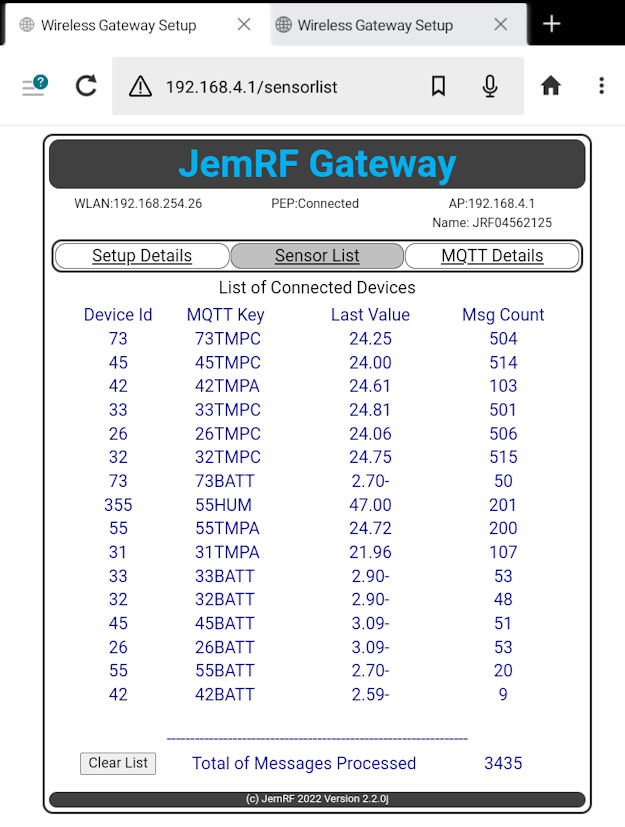
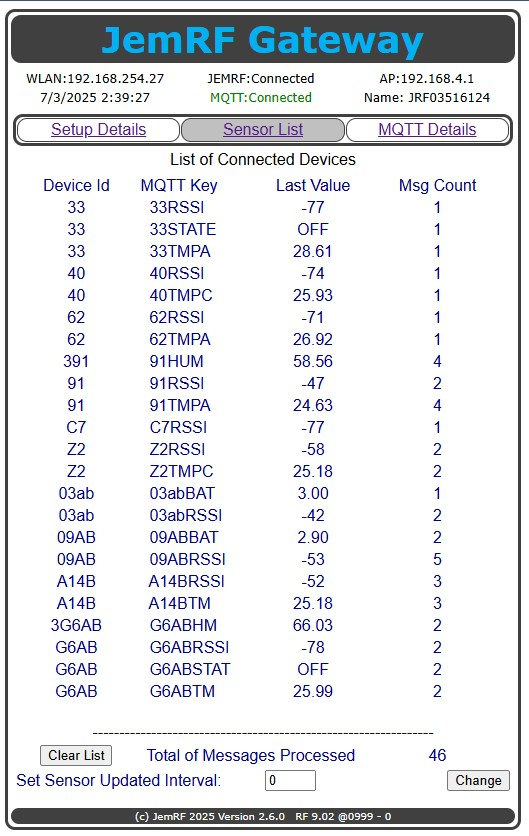
WiFI Gateway - RF4 compliant, new Sensor List

diff --git a/pages/wifidocs/wifi-rf-relay.md b/pages/wifidocs/wifi-rf-relay.md
@@ -1,20 +1,21 @@
 ---
 title: WiFi Wireless Gateway
 keywords: communication, communications, relay, basic, radio, spec, wifi, sensor
-last_updated: Jan 30, 2024
+last_updated: Jul 2, 2025
 tags: gateway, RF Gateway, WiFi Gateway
 sidebar: wifi_sidebar
 permalink: wifi-rf-relay.html
 folder: mydoc
 ---
 ## Introduction
-The WiFi Wireless Gateway (WiFi Gateway) receives messages from the Wireless sensors and sends them to the PrivateEyePi or JemRF Monitoring service. This eliminates the need for a Raspberry PI computer and all that extra overhead. The Gateway provides an easy to use tool to get your wireless sensors online free of configuring and programming a computer first.<br />
+The WiFi Wireless Gateway (WiFi Gateway) receives messages from the Wireless sensors and sends them to the JemRF Monitoring service. This eliminates the need for a Raspberry PI computer and all that extra overhead. The Gateway provides an easy to use tool to get your wireless sensors online free of configuring and programming a computer first.<br />
 
 The WiFi Gateway is in the same physical case as the current WiFi IoT Sensors.
  * Follows the same setup process as our WiFi IoT Sensors to connect to the local 2.4G WiFi Only.
  * It has option to send Celsius to Fahrenheit readings.
  * Using a USB-mini connector for power.
  * It provides a Sensor List overview page to show all the sensors it is tracking and their last value.
+ * Supports RF4 Sensors (4-character device IDs)
 
 {% include image.html file="wirelessgateway.png" alt="WiFi Gateway Case" width="200px"%}
 

diff --git a/pages/wifidocs/wifi-rf-gw-setup.md b/pages/wifidocs/wifi-rf-gw-setup.md
@@ -83,4 +83,8 @@ The WiFi Gateway tracks messages for up to 64 Sensors.
 
 {% include image.html file="ActiveDevices.jpg" alt="WiFi GW Sensor List"%}
 
+There is also an option to set Sensors to a common send Interval at the bottom of the list. The value of 0 disables this feature.\
+This allows for setting the update interval of a Sensor when the sensor starts up. The Gateway detects the Sensor Started and sends it the Interval command. \
+Use case: You have several sensor sending updates at 1 minute, 3 minutes and 5 minutes. You would like them all to be sending at a 5 minute invterval. You would enter 5 in the *Set Sensor Updated Interval* and press **Change**. Then when you power cycle your sensors they will be changed to update every 5 minutes. The interval can be 1 to 30 minutes.
+
 
